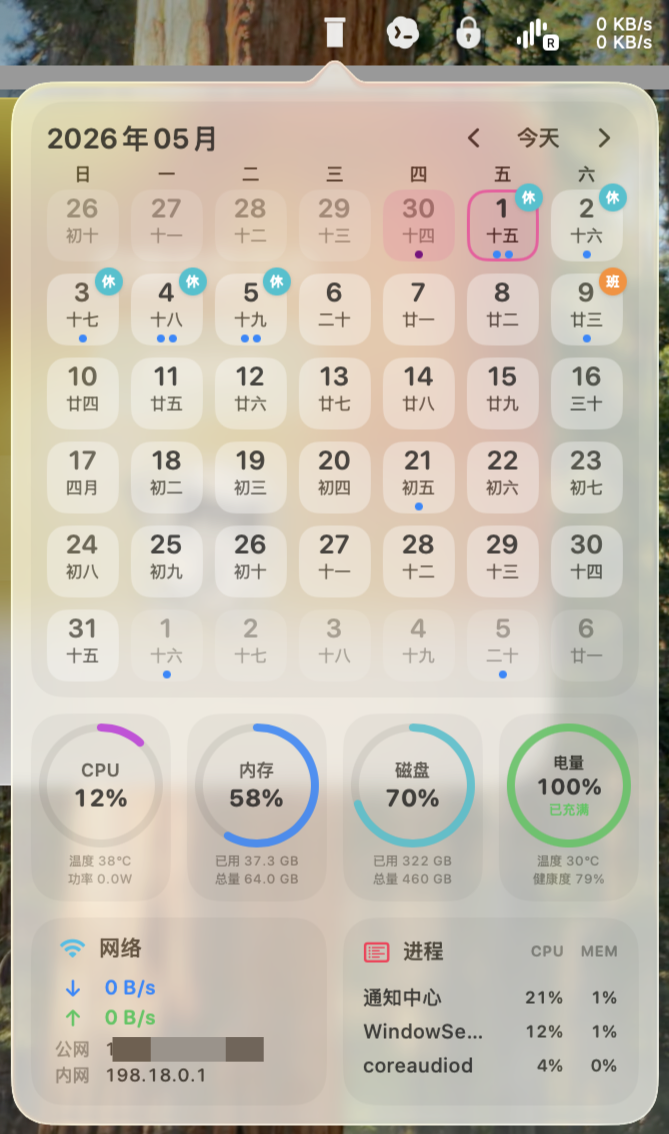
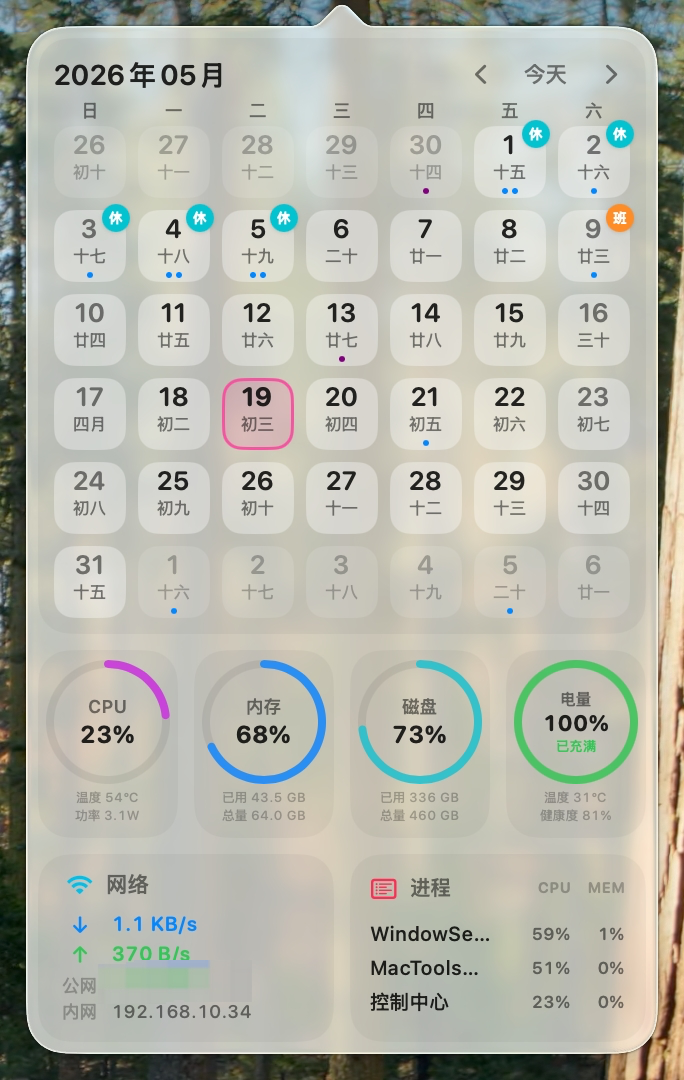
Update README screenshots

diff --git a/README.md b/README.md
@@ -7,9 +7,9 @@
 
 ## 截图
 
-|                                   菜单栏功能面板                                    |                                              组件仪表盘                                              |                                        设置与插件                                         |                                       关于与更新                                        |
+|                                   菜单栏功能面板                                    |                                              组件仪表盘                                              |                                        通用设置                                         |                                       插件页面                                        |
 | :---------------------------------------------------------------------------------: | :--------------------------------------------------------------------------------------------------: | :---------------------------------------------------------------------------------------: | :-------------------------------------------------------------------------------------: |
-| <img src="docs/assets/screenshots/menu-panel.png" width="220" alt="菜单栏功能面板"> | <img src="docs/assets/screenshots/component-dashboard.png" width="220" alt="日历与系统状态组件面板"> | <img src="docs/assets/screenshots/settings-general.png" width="220" alt="设置与插件页面"> | <img src="docs/assets/screenshots/settings-about.png" width="220" alt="关于与更新页面"> |
+| <img src="docs/assets/screenshots/menu-panel.png" width="220" alt="菜单栏功能面板"> | <img src="docs/assets/screenshots/component-dashboard.png" width="220" alt="日历与系统状态组件面板"> | <img src="docs/assets/screenshots/settings-general.png" width="220" alt="通用设置页面"> | <img src="docs/assets/screenshots/settings-plugins.png" width="220" alt="插件页面"> |
 
 ## 功能
 